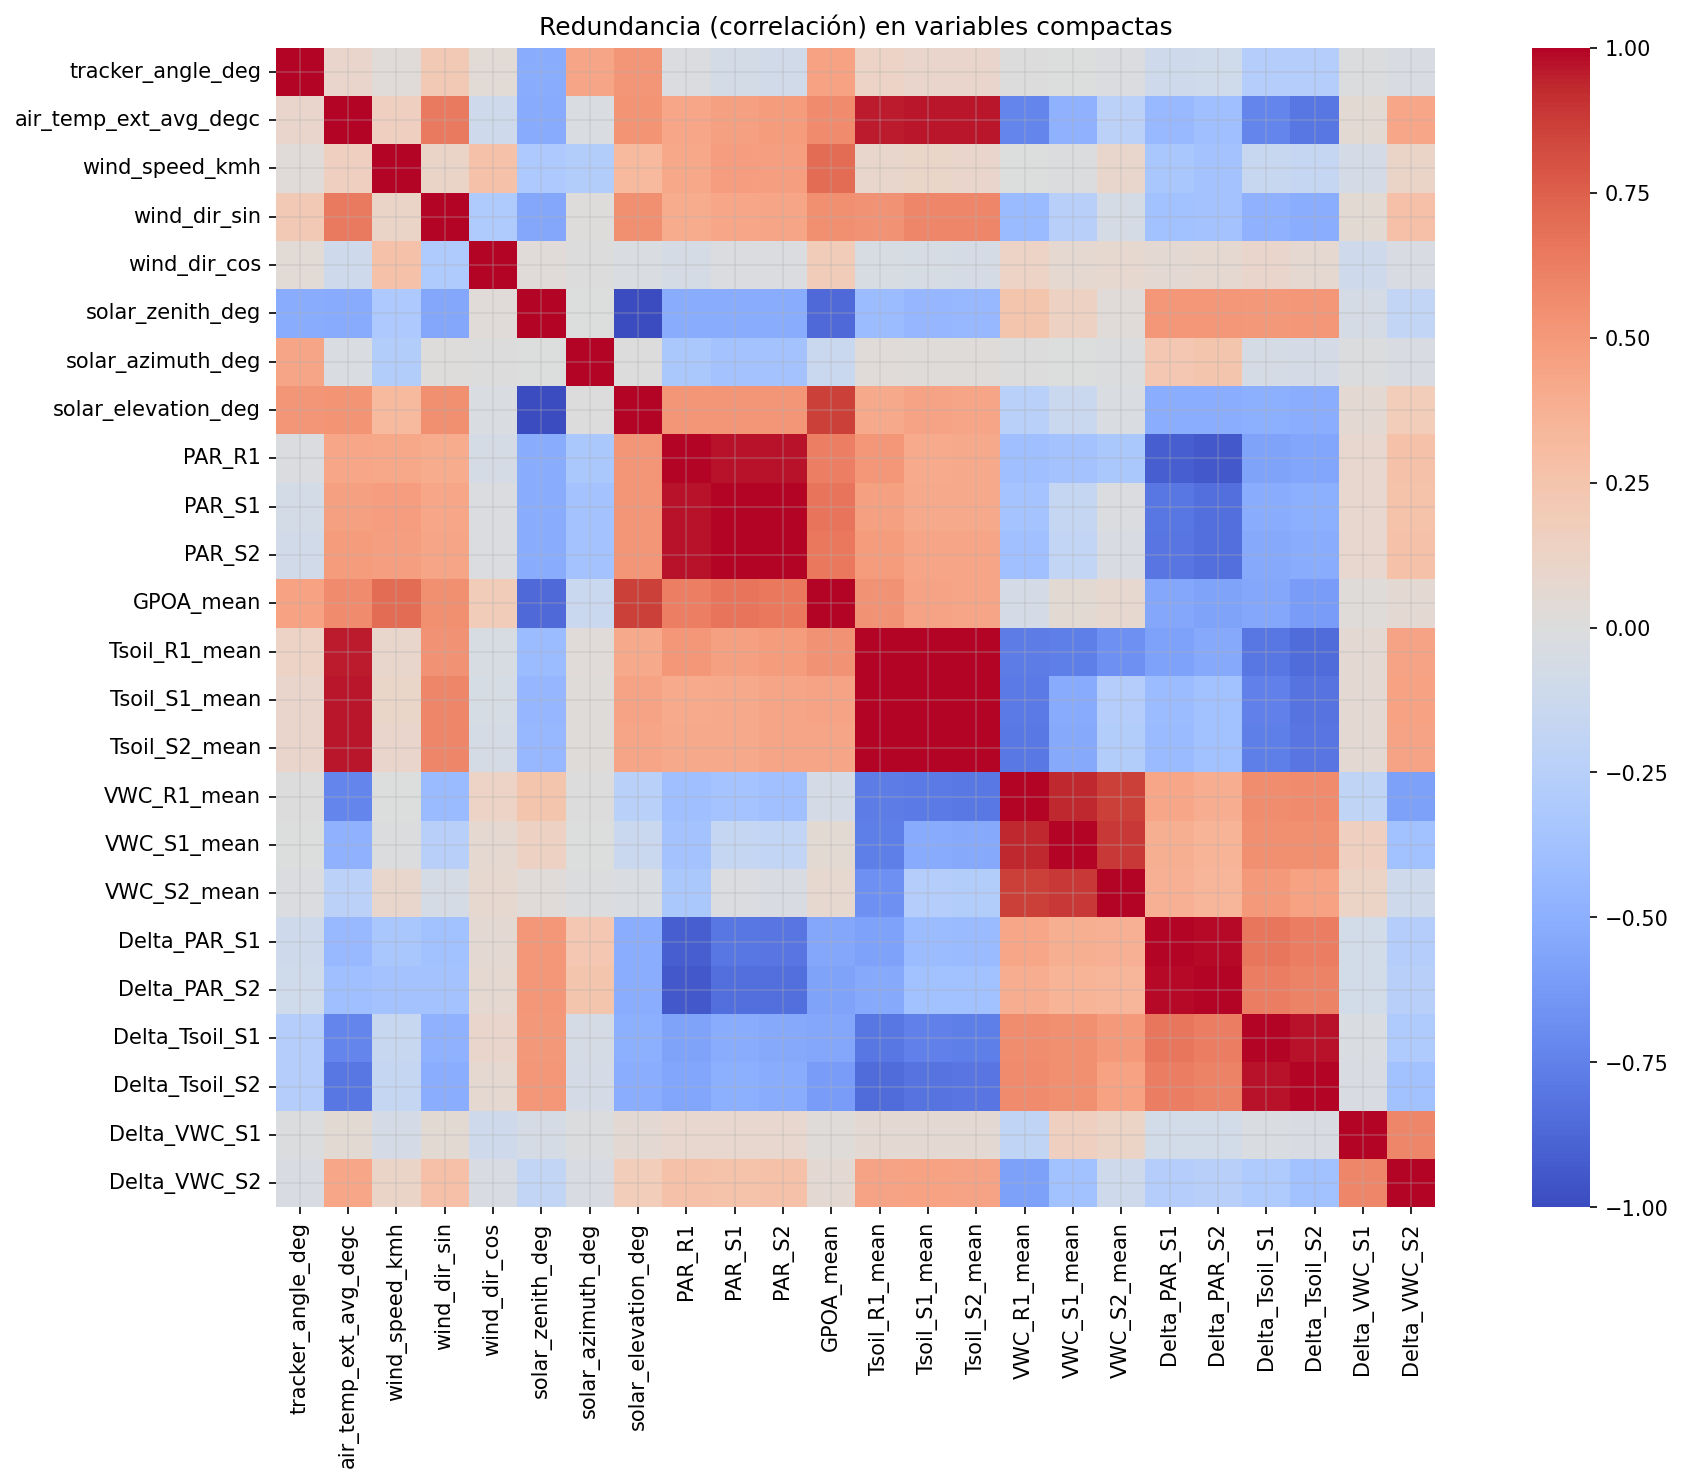
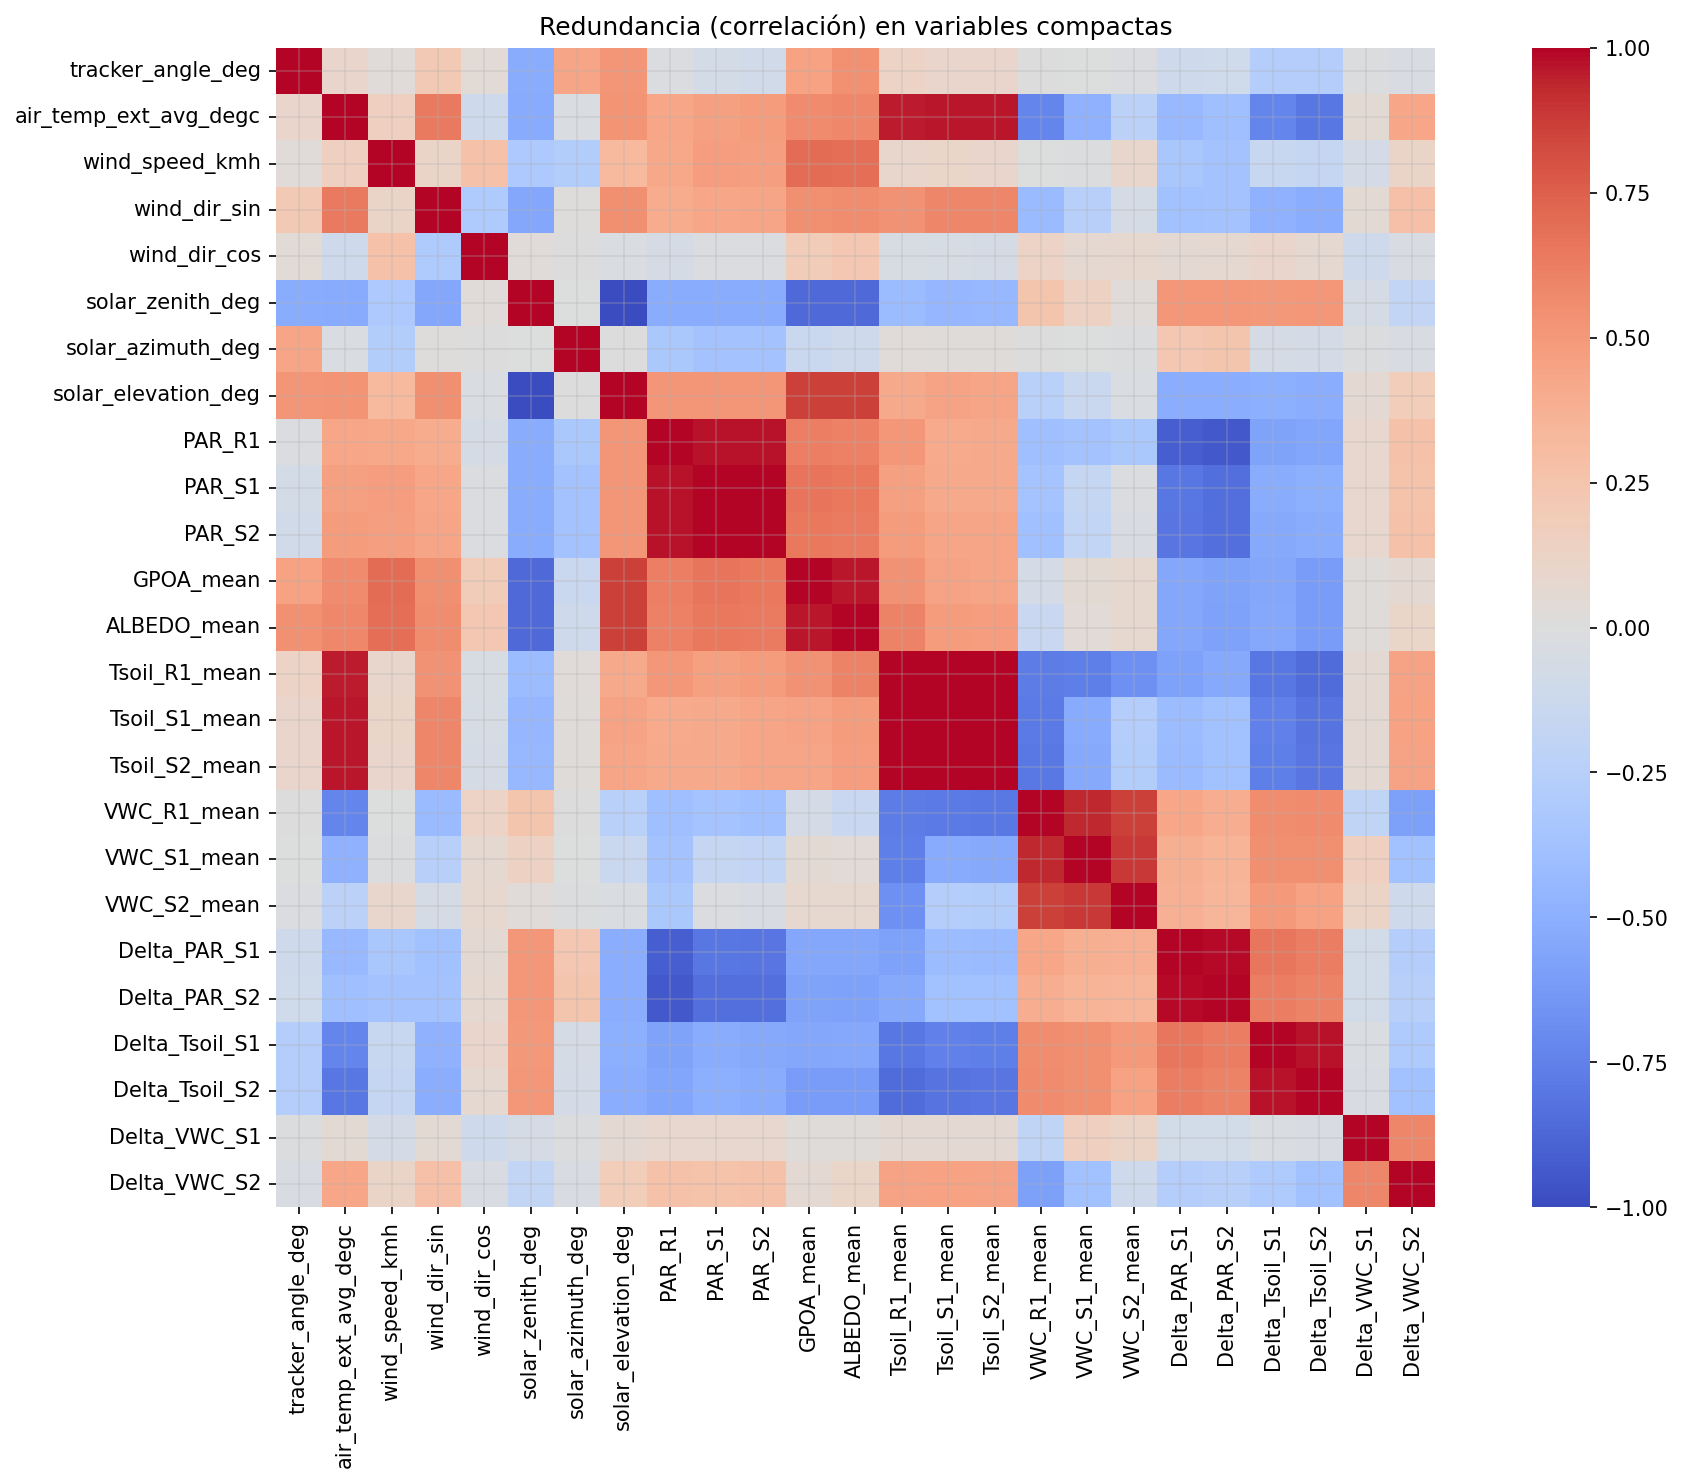
Definit MDP

diff --git a/sprint3/Definicio_model.md b/sprint3/Definicio_model.md
@@ -1,0 +1,49 @@
+***
+
+## Definició de l'Estat del MDP (Markov Decision Process) per al World Model
+
+Per entrenar el *World Model* del sistema agrovoltaic, hem optat per una **arquitectura factoritzada**. En lloc de demanar a la xarxa neuronal que predigui tot l'entorn (incloent-hi la meteorologia o la posició del sol, coses que el moviment de les plaques no pot alterar), dividim les variables en dos grans blocs: **Exògenes** i **Endògenes**.
+
+A més, per evitar problemes de colinealitat (com la forta correlació entre les zones S1 i S2 en moure's sota la mateixa consigna de control) i reduir la càrrega cognitiva del model, hem seleccionat un subconjunt purificat de 19 variables essencials.
+
+### 1. Acció ($A_t$)
+L'única variable de control que l'agent de RL pot manipular:
+*   `tracker_angle_deg`: Angle d'inclinació de les plaques fotovoltaiques (de -60° a +60°).
+
+### 2. Variables Exògenes ($Exo_t$) - El Context
+Aquestes variables actuen com a condicions de contorn (el clima i el temps). Són independents de l'acció $A_t$ i **no han de ser predites per la xarxa neuronal**. En simulació, aquests valors s'injecten des de dades històriques o models externs.
+
+*   **Rellotge Cíclic (Temps i Estacionalitat):**
+    *   `hour_sin`, `hour_cos`: Codificació de l'hora del dia.
+    *   `day_sin`, `day_cos`: Codificació del dia de l'any.
+    *   *Justificació:* Permet al model entendre els cicles diaris (dia/nit) i estacionals sense els salts abruptes de les variables numèriques estàndard (ex: de 23:59 a 00:00).
+*   **Radiació i Posició Solar Teòrica:**
+    *   `solar_elevation_deg`: Elevació del sol sobre l'horitzó.
+    *   `solar_azimuth_deg`: Azimut solar (útil si hi ha asimetries matí/tarda o muntanyes properes).
+    *   `clearsky_ghi_wm2`: Irradiància Global Horitzontal teòrica en cel clar. Actua com a límit màxim teòric de l'energia solar disponible.
+*   **Meteorologia Local Externa:**
+    *   `air_temp_ext_avg_degc`: Temperatura de l'aire a l'exterior.
+    *   `wind_speed_kmh`: Velocitat del vent.
+    *   `precip_intensity_mm10min`: Intensitat de pluja.
+*   **Baseline Agronòmic (Sensor R1 - Referència sense plaques):**
+    *   `PAR_R1`: Radiació Fotosintèticament Activa a ple sol.
+    *   `Tsoil_R1_mean`: Temperatura del sòl a ple sol.
+    *   `VWC_R1_mean`: Humitat del sòl a ple sol.
+    *   *Justificació:* Aquests sensors actuen com el "clima base" del sòl sense l'efecte de l'ombra.
+
+### 3. Variables Endògenes ($Endo_t$) - L'Estat del Sistema (Objectiu de Predicció)
+Aquestes són les úniques variables que el *World Model* ha d'aprendre a predir: $Endo_{t+1} = f(Endo_t, Exo_t, A_t)$. Representen l'impacte directe del moviment de les plaques sobre el microclima i la generació.
+
+*   **Producció d'Energia:**
+    *   `GPOA_mean`: Irradiància Global al Pla de la Matriu (W/m²). És la principal mètrica per avaluar la generació elèctrica.
+    *   `ALBEDO_mean`: Radiació reflectida pel sòl, útil com a indicador de l'estat del sòl i per a càlculs d'energia si les plaques són bifacials.
+*   **Efecte Microclimàtic (Variables Delta - Zona S1):**
+    *   `Delta_PAR_S1`: Diferència de PAR entre la zona sota la placa (S1) i el control a ple sol (R1).
+    *   `Delta_Tsoil_S1`: Diferència de temperatura del sòl.
+    *   `Delta_VWC_S1`: Diferència d'humitat del sòl.
+
+#### **Justificació de l'ús de Variables "Delta" i l'exclusió de S2:**
+
+1.  **Exclusió de la Zona S2 per Colinealitat:** L'anàlisi de correlació mostra que S1 i S2 responen de manera gairebé idèntica a l'acció del tracker. Incloure S2 només aporta redundància i augmenta la complexitat de l'espai d'estats.
+2.  **Aïllament de la Causalitat:** Si intentéssim predir el valor absolut `PAR_S1`, el model hauria d'aprendre a predir el pas de núvols (impossible) sumat a l'ombra de la placa. Predint `Delta_PAR_S1`, el model només ha d'aprendre l'atenuació geomètrica que causa la placa respecte a la llum disponible (`PAR_R1`).
+3.  **Generalització i Robustesa:** L'enfocament Delta permet que el model sigui resilient a condicions climàtiques anòmales que no hagi vist en l'entrenament, ja que aprèn relacions relatives (ex: "el panell bloqueja un X% de llum") i no magnituds absolutes.